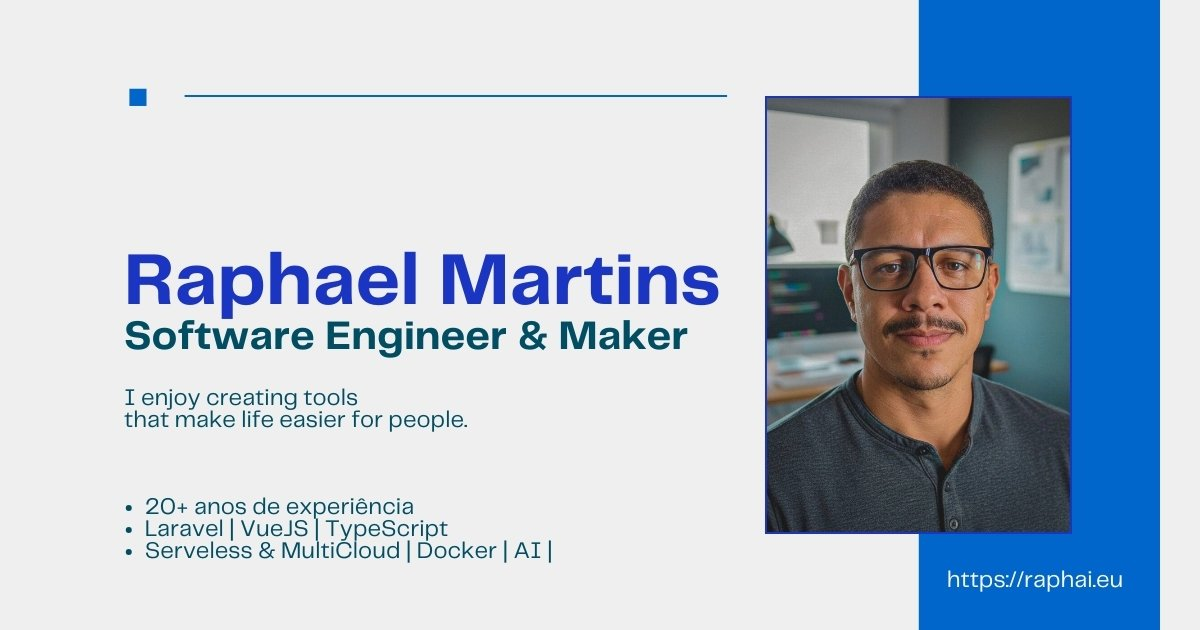
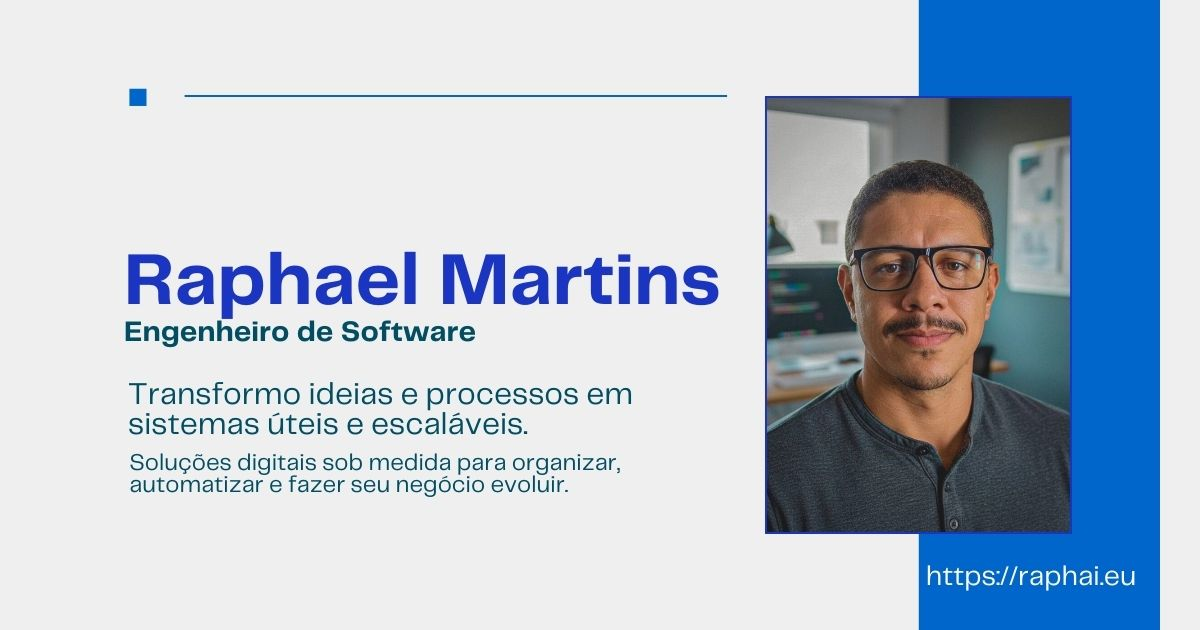
refactor: remove middleware file and update layout metadata for improved localization; enhance Hero component with new slogan structure and update navigation links in Header for consistency

diff --git a/app/[locale]/layout.tsx b/app/[locale]/layout.tsx
@@ -29,16 +29,23 @@ export async function generateMetadata({
 }): Promise<Metadata> {
   const { locale } = await params;
   const isEnglish = locale === 'en-us';
+  const siteTitle = isEnglish
+    ? 'Raphael Martins - Software Engineer'
+    : 'Raphael Martins - Engenheiro de Software';
+  const siteDescription = isEnglish
+    ? 'Software engineer creating tools that make life easier for people. Expert in Laravel, Vue.js, and modern architectures.'
+    : 'Sistemas escaláveis e soluções digitais sob medida';
+  const shareDescription = isEnglish
+    ? 'Creating tools that make life easier for people.'
+    : 'Sistemas escaláveis e soluções digitais sob medida';
 
   return {
     metadataBase: new URL('https://raphai.eu'),
     title: {
-      default: 'Raphael Martins — Software Engineer & Maker',
+      default: siteTitle,
       template: '%s | Raphael Martins',
     },
-    description: isEnglish
-      ? 'Software engineer creating tools that make life easier for people. Expert in Laravel, Vue.js, and modern architectures.'
-      : 'Engenheiro de software criando ferramentas que facilitam a vida das pessoas. Especialista em Laravel, Vue.js e arquiteturas modernas.',
+    description: siteDescription,
     keywords: [
       'Raphael Martins',
       'Software Engineer',
@@ -75,10 +82,8 @@ export async function generateMetadata({
       alternateLocale: locale === 'en-us' ? ['pt_BR'] : ['en_US'],
       url: `https://raphai.eu/${locale}`,
       siteName: 'Raphael Martins',
-      title: 'Raphael Martins — Software Engineer & Maker',
-      description: isEnglish
-        ? 'Creating tools that make life easier for people.'
-        : 'Criando ferramentas que facilitam a vida das pessoas.',
+      title: siteTitle,
+      description: shareDescription,
       images: [
         {
           url: '/images/og-image.jpg',
@@ -90,10 +95,8 @@ export async function generateMetadata({
     },
     twitter: {
       card: 'summary_large_image',
-      title: 'Raphael Martins — Software Engineer & Maker',
-      description: isEnglish
-        ? 'Creating tools that make life easier for people.'
-        : 'Criando ferramentas que facilitam a vida das pessoas.',
+      title: siteTitle,
+      description: shareDescription,
       images: ['/images/og-image.jpg'],
     },
     robots: {
@@ -192,7 +195,7 @@ export default async function LocaleLayout({
               description:
                 locale === 'en-us'
                   ? 'Software engineer creating tools that make life easier for people.'
-                  : 'Engenheiro de software criando ferramentas que facilitam a vida das pessoas.',
+                  : 'Sistemas escaláveis e soluções digitais sob medida',
             }),
           }}
         />

diff --git a/components/layout/Header.tsx b/components/layout/Header.tsx
@@ -43,16 +43,16 @@ export default function Header() {
           <div className="hidden md:flex items-center space-x-6">
             <div className="flex space-x-8">
               <a
-                href="/#sobre"
-                className="text-gray-600 hover:text-[#004e64] transition-colors duration-200 font-medium"
-              >
-                {t('nav.about')}
-              </a>
-              <a
                 href="/#projetos"
                 className="text-gray-600 hover:text-[#004e64] transition-colors duration-200 font-medium"
               >
                 {t('nav.projects')}
+              </a>
+              <a
+                href="/#sobre"
+                className="text-gray-600 hover:text-[#004e64] transition-colors duration-200 font-medium"
+              >
+                {t('nav.about')}
               </a>
               <a
                 href="/#skills"
@@ -112,18 +112,18 @@ export default function Header() {
           <div className="md:hidden py-4 border-t border-gray-100">
             <div className="flex flex-col space-y-4">
               <a
-                href="/#sobre"
-                className="text-gray-600 hover:text-[#004e64] transition-colors duration-200 font-medium"
-                onClick={() => setIsMenuOpen(false)}
-              >
-                {t('nav.about')}
-              </a>
-              <a
                 href="/#projetos"
                 className="text-gray-600 hover:text-[#004e64] transition-colors duration-200 font-medium"
                 onClick={() => setIsMenuOpen(false)}
               >
                 {t('nav.projects')}
+              </a>
+              <a
+                href="/#sobre"
+                className="text-gray-600 hover:text-[#004e64] transition-colors duration-200 font-medium"
+                onClick={() => setIsMenuOpen(false)}
+              >
+                {t('nav.about')}
               </a>
               <a
                 href="/#skills"

diff --git a/components/home/Hero.tsx b/components/home/Hero.tsx
@@ -18,10 +18,14 @@ export default function Hero() {
               <span className="block text-gray-900">{t('name')}</span>
               <span className={`block mt-2 ${styles.textGradient}`}>—</span>
             </h1>
-            <p 
-              className="font-display text-2xl sm:text-3xl lg:text-4xl font-light text-gray-700 mb-12 leading-relaxed"
-              dangerouslySetInnerHTML={{ __html: t('slogan') }}
-            />
+            <div className="mb-12">
+              <p className="font-display text-2xl sm:text-3xl lg:text-4xl font-light text-gray-900 leading-tight">
+                {t('slogan_title')}
+              </p>
+              <p className="mt-4 text-lg sm:text-xl text-gray-600 leading-relaxed max-w-2xl">
+                {t('slogan_subtitle')}
+              </p>
+            </div>
             <div className="flex flex-col sm:flex-row gap-4 justify-start items-start">
               <Button href="#projetos" variant="primary">
                 {t('cta_projects')}

diff --git a/lib/notion.ts b/lib/notion.ts
@@ -1,6 +1,7 @@
 // Initialize environment variables
 const NOTION_API_KEY = process.env.NOTION_API_KEY!;
 const DATABASE_ID = process.env.NOTION_DATABASE_ID!;
+const NOTION_REVALIDATE_SECONDS = 60 * 60; // 1h
 
 // Helper function to call Notion API directly
 async function notionFetch(endpoint: string, body?: any) {
@@ -12,7 +13,7 @@ async function notionFetch(endpoint: string, body?: any) {
       'Content-Type': 'application/json',
     },
     body: body ? JSON.stringify(body) : undefined,
-    cache: 'no-store',
+    next: { revalidate: NOTION_REVALIDATE_SECONDS },
   });
 
   if (!response.ok) {

diff --git a/app/[locale]/blog/[slug]/page.tsx b/app/[locale]/blog/[slug]/page.tsx
@@ -168,10 +168,6 @@ export default async function BlogPostPage({ params }: BlogPostPageProps) {
 
   // Fetch page content blocks
   const blocks = await getPageContent(post.id);
-  
-  // Debug: log blocks structure
-  console.log('📦 Total blocks:', blocks.length);
-  console.log('📦 First 3 blocks:', JSON.stringify(blocks.slice(0, 3), null, 2));
 
   const formattedDate = new Date(post.publishedDate).toLocaleDateString(
     locale === 'pt-br' ? 'pt-BR' : 'en-US',

diff --git a/app/[locale]/page.tsx b/app/[locale]/page.tsx
@@ -8,8 +8,8 @@ export default function Home() {
   return (
     <>
       <Hero />
-      <About />
       <ProjectsShowcase />
+      <About />
       <Skills />
       <Contact />
     </>

diff --git a/proxy.ts b/proxy.ts
@@ -7,3 +7,4 @@ export const config = {
   // Match only internationalized pathnames
   matcher: ['/', '/(pt-br|en-us)/:path*'],
 };
+
